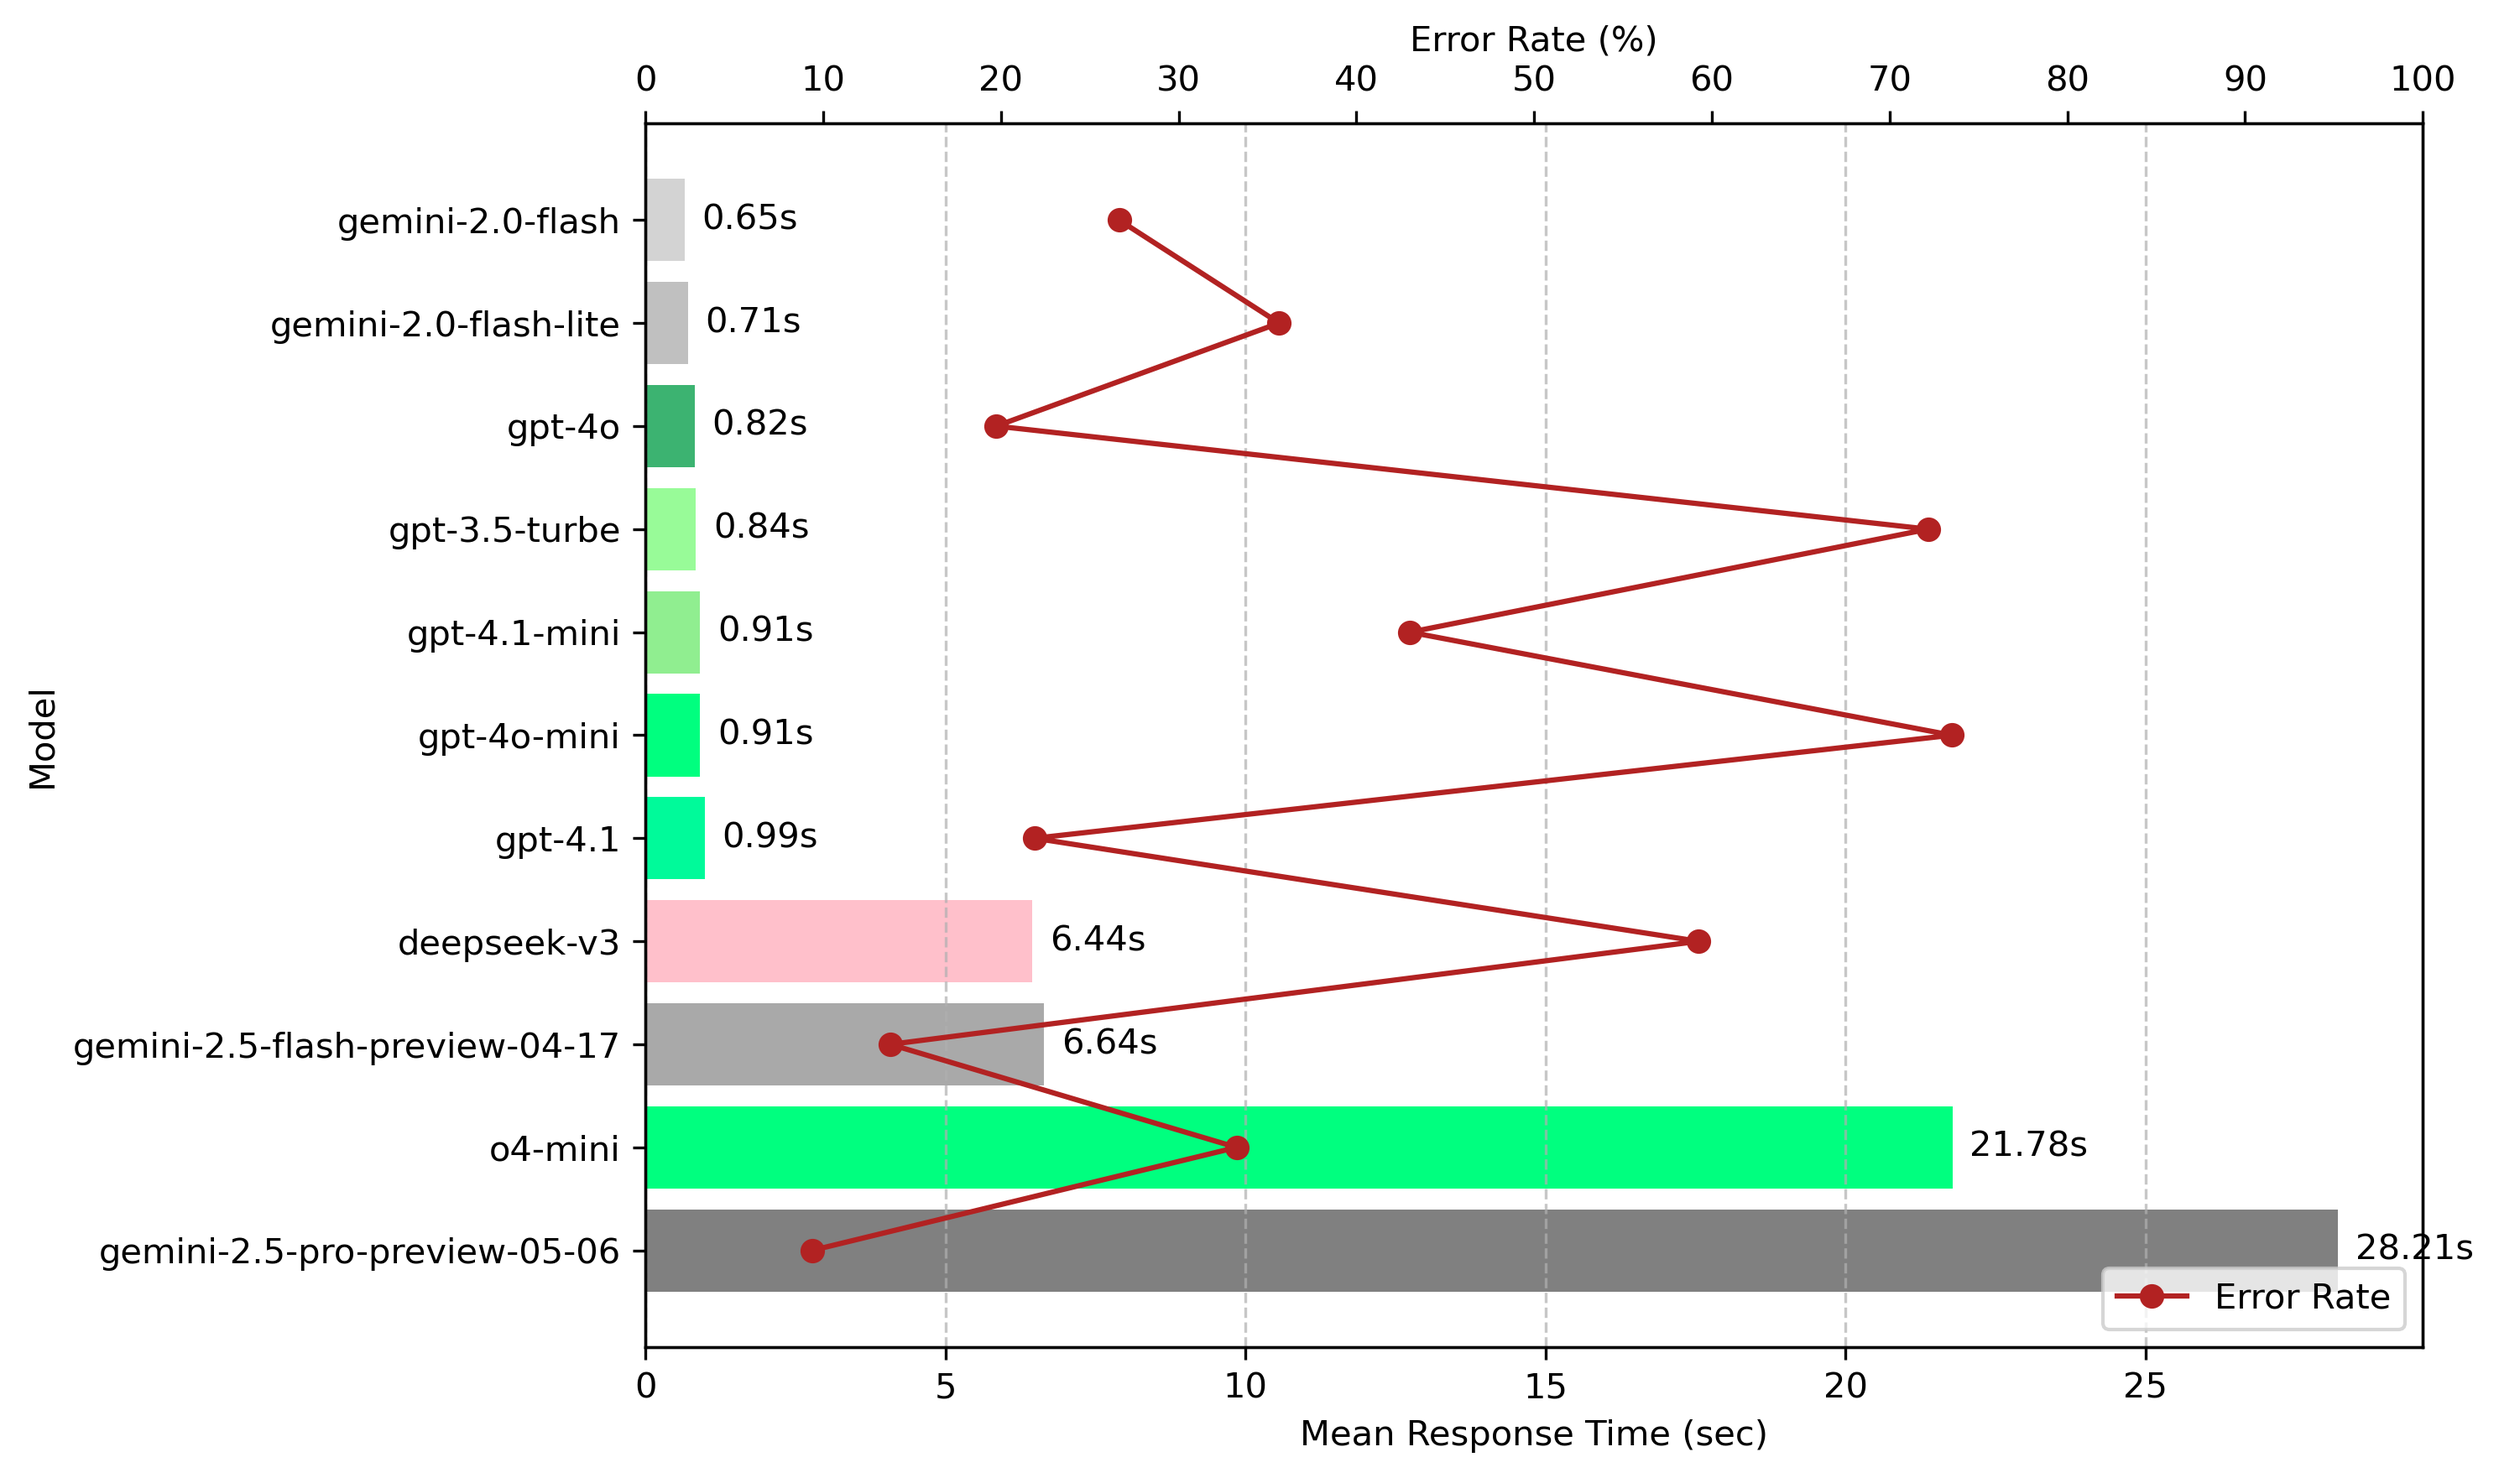
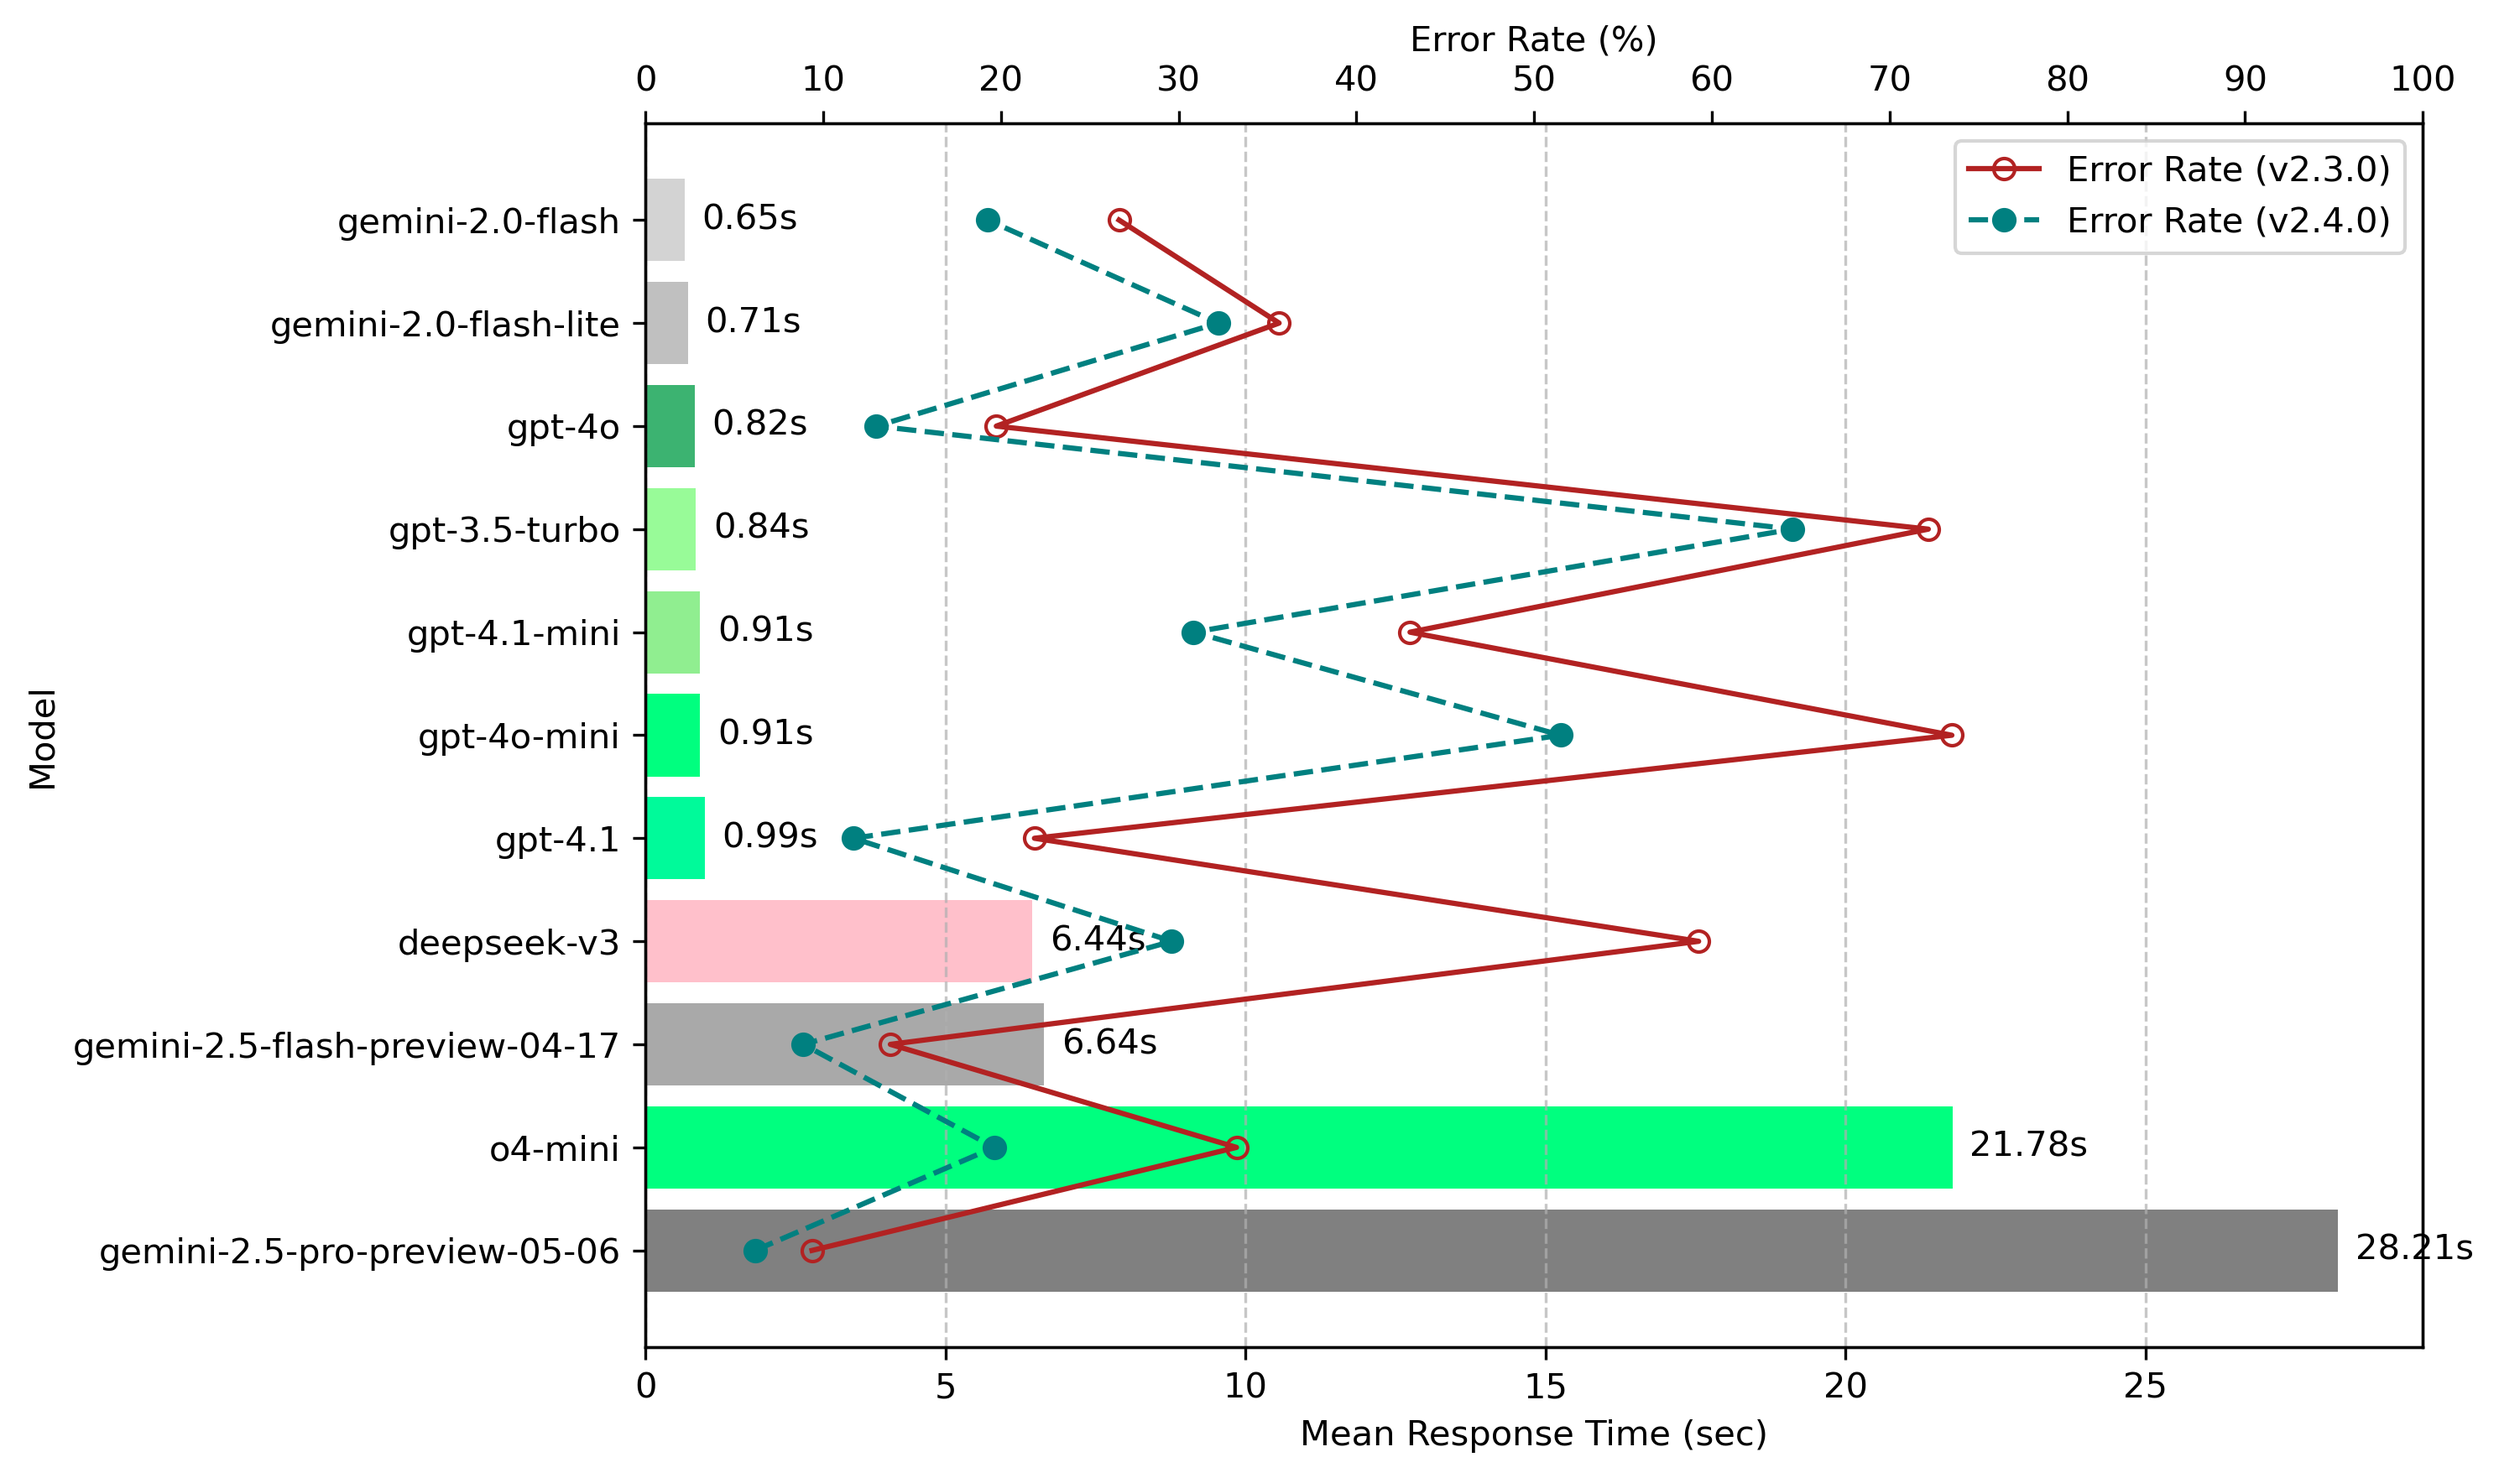
グラフにVer2.4.0のErrer Rateを足した。

diff --git a/benchmark/plot_mean_response_time.py b/benchmark/plot_mean_response_time.py
@@ -1,119 +1,230 @@
 #!/usr/bin/env python3
 # -*- coding: utf-8 -*-
-"""
-plot_mean_response_time.py
+"""plot_mean_response_time.py
 
-各モデルの平均応答時間（mean_elapsed_sec）をバーグラフでプロットする
+グラフ構成
+============
+1. X 軸 (主軸, ax1)
+   • 各モデルの平均応答時間 mean_elapsed_sec (v2.3.0)
+     -> 横向きバーで表示
+
+   • 同じモデルの mean_elapsed_sec (v2.4.0)
+     -> ネイビー破線 & 四角マーカーで折れ線表示
+
+2. X 軸 (副軸, ax2 – 上側)
+   • 各モデルの誤り率 mean_cer (v2.3.0)
+     -> 赤丸 & 実線の折れ線表示
+
+   • 同じモデルの mean_cer (v2.4.0)
+     -> ティール菱形 & 破線の折れ線表示
+
+凡例
+----
+• 左下 : Mean Response (v2.4.0)
+• 右下 : Error Rate (v2.3.0 / v2.4.0)
+
+バーの右横には v2.3.0 の平均応答時間値を注釈。
 """
-import matplotlib.pyplot as plt
+
+from __future__ import annotations
+
 import argparse
-
-## モデル名と平均応答時間 (mean_elapsed_sec) 値
-# 両プロットで同じ順序・カラーを使用
-modules = [
-    'gpt-3.5-turbo',
-    'gpt-4.1-mini',
-    'gpt-4.1',
-    'gpt-4o-mini',
-    'gpt-4o',
-    'o4-mini',
-    'deepseek-v3',
-    'gemini-2.0-flash',
-    'gemini-2.0-flash-lite',
-    'gemini-2.5-flash-preview-04-17',
-    'gemini-2.5-pro-preview-05-06',
-]
-# 各モデルの mean_elapsed_sec
-mean_elapsed_secs = [
-    0.836779,   # gpt-3.5-turbo
-    0.908558,   # gpt-4.1-mini
-    0.985278,   # gpt-4.1
-    0.912621,   # gpt-4o-mini
-    0.821817,   # gpt-4o
-    21.780880,  # o4-mini
-    6.444244,   # deepseek-v3
-    0.651836,   # gemini-2.0-flash
-    0.709727,   # gemini-2.0-flash-lite
-    6.640661,   # gemini-2.5-flash-preview-04-17
-    28.210514,  # gemini-2.5-pro-preview-05-06
-]
-
-# カラー設定（モデルごと, plot_errorrate_vs_cost.py と同順序）
-colors = [
-    'palegreen',
-    'lightgreen',
-    'mediumspringgreen',
-    'springgreen',
-    'mediumseagreen',
-    'springgreen',
-    'pink',
-    'lightgray',
-    'silver',
-    'darkgray',
-    'gray',
-]
-
-## 各モデルのエラーレート (mean_cer)
-error_rates = [
-    0.721777,  # gpt-3.5-turbo
-    0.430172,  # gpt-4.1-mini
-    0.218878,  # gpt-4.1
-    0.735027,  # gpt-4o-mini
-    0.197426,  # gpt-4o
-    0.332583,  # o4-mini
-    0.592557,  # deepseek-v3
-    0.266489,  # gemini-2.0-flash
-    0.356546,  # gemini-2.0-flash-lite
-    0.137815,  # gemini-2.5-flash-preview-04-17
-    0.093759,  # gemini-2.5-pro-preview-05-06
-]
-# 応答時間が長い順にソート
-sorted_idx = sorted(range(len(mean_elapsed_secs)), key=lambda i: mean_elapsed_secs[i], reverse=True)
-modules = [modules[i] for i in sorted_idx]
-mean_elapsed_secs = [mean_elapsed_secs[i] for i in sorted_idx]
-colors = [colors[i] for i in sorted_idx]
-error_rates = [error_rates[i] for i in sorted_idx]
+from typing import List
 
 import matplotlib.pyplot as plt
-# メイン軸：平均応答時間を横長バーでプロット
+
+# ---------------------------------------------------------------------------
+# 元データ（aggregate_results.py の出力を転記）
+# ---------------------------------------------------------------------------
+
+MODELS: List[str] = [
+    "gpt-3.5-turbo",
+    "gpt-4.1-mini",
+    "gpt-4.1",
+    "gpt-4o-mini",
+    "gpt-4o",
+    "o4-mini",
+    "deepseek-v3",
+    "gemini-2.0-flash",
+    "gemini-2.0-flash-lite",
+    "gemini-2.5-flash-preview-04-17",
+    "gemini-2.5-pro-preview-05-06",
+]
+
+# 平均応答時間 (sec)
+MEAN_ELAPSED_V23 = [
+    0.836779,
+    0.908558,
+    0.985278,
+    0.912621,
+    0.821817,
+    21.780880,
+    6.444244,
+    0.651836,
+    0.709727,
+    6.640661,
+    28.210514,
+]
+
+MEAN_ELAPSED_V24 = [
+    0.827224,
+    0.979534,
+    1.276582,
+    1.059017,
+    0.983554,
+    14.309153,
+    5.139222,
+    0.609305,
+    0.590890,
+    4.177074,
+    17.666037,
+]
+
+# 誤り率 (CER)
+MEAN_CER_V23 = [
+    0.721777,
+    0.430172,
+    0.218878,
+    0.735027,
+    0.197426,
+    0.332583,
+    0.592557,
+    0.266489,
+    0.356546,
+    0.137815,
+    0.093759,
+]
+
+MEAN_CER_V24 = [
+    0.645358,
+    0.308427,
+    0.117064,
+    0.514936,
+    0.130022,
+    0.196260,
+    0.296198,
+    0.192571,
+    0.322322,
+    0.088799,
+    0.061644,
+]
+
+# カラー (plot_errorrate_vs_cost.py と合わせている)
+BAR_COLORS = [
+    "palegreen",
+    "lightgreen",
+    "mediumspringgreen",
+    "springgreen",
+    "mediumseagreen",
+    "springgreen",
+    "pink",
+    "lightgray",
+    "silver",
+    "darkgray",
+    "gray",
+]
+
+# ---------------------------------------------------------------------------
+# 並び替え : v2.3.0 の mean_elapsed_sec が長い順
+# ---------------------------------------------------------------------------
+
+sorted_idx = sorted(range(len(MODELS)), key=lambda i: MEAN_ELAPSED_V23[i], reverse=True)
+
+models_sorted = [MODELS[i] for i in sorted_idx]
+elapsed_v23_sorted = [MEAN_ELAPSED_V23[i] for i in sorted_idx]
+elapsed_v24_sorted = [MEAN_ELAPSED_V24[i] for i in sorted_idx]
+cer_v23_sorted = [MEAN_CER_V23[i] for i in sorted_idx]
+cer_v24_sorted = [MEAN_CER_V24[i] for i in sorted_idx]
+bar_colors_sorted = [BAR_COLORS[i] for i in sorted_idx]
+
+# バー中心の y 座標を後で使うために計算する
+
+# ---------------------------------------------------------------------------
+# 描画
+# ---------------------------------------------------------------------------
+
 fig, ax1 = plt.subplots(figsize=(10, 6))
-bars = ax1.barh(modules, mean_elapsed_secs, color=colors)
 
-ax1.set_xlabel('Mean Response Time (sec)')
-ax1.set_ylabel('Model')
-ax1.grid(axis='x', linestyle='--', alpha=0.7)
+# -- v2.3.0: 横棒バー
+bars = ax1.barh(models_sorted, elapsed_v23_sorted, color=bar_colors_sorted)
 
-# 補助軸：エラー率を折れ線でプロット
-ax2 = ax1.twiny()
-# エラー率をパーセントに変換
-err_pct = [e * 100 for e in error_rates]
-# バーの中心 y 座標を取得
+ax1.set_xlabel("Mean Response Time (sec)")
+ax1.set_ylabel("Model")
+ax1.grid(axis="x", linestyle="--", alpha=0.7)
+
+# バーの中心 y 座標
 y_centers = [bar.get_y() + bar.get_height() / 2 for bar in bars]
-ax2.plot(err_pct, y_centers, 'o-', color='firebrick', label='Error Rate')
-ax2.set_xlabel('Error Rate (%)')
+
+# (削除) v2.4.0 の mean response 折れ線 — 要件変更により表示しない
+
+# -------- 副軸 (上): CER --------
+ax2 = ax1.twiny()
+
+cer_pct_v23 = [c * 100 for c in cer_v23_sorted]
+cer_pct_v24 = [c * 100 for c in cer_v24_sorted]
+
+# ---- Error Rate v2.3.0: Hollow circle ----
+ax2.plot(
+    cer_pct_v23,
+    y_centers,
+    linestyle="-",
+    marker="o",
+    markerfacecolor="none",  # hollow
+    markeredgecolor="firebrick",
+    color="firebrick",
+    label="Error Rate (v2.3.0)",
+)
+
+# ---- Error Rate v2.4.0: Filled circle ----
+ax2.plot(
+    cer_pct_v24,
+    y_centers,
+    linestyle="--",
+    marker="o",
+    markerfacecolor="teal",
+    markeredgecolor="teal",
+    color="teal",
+    label="Error Rate (v2.4.0)",
+)
+
+ax2.set_xlabel("Error Rate (%)")
 ax2.set_xlim(0, 100)
 ax2.set_xticks(range(0, 101, 10))
-ax2.xaxis.set_label_position('top')
-ax2.xaxis.set_ticks_position('top')
-ax2.legend(loc='lower right')
+ax2.xaxis.set_label_position("top")
+ax2.xaxis.set_ticks_position("top")
 
-# 平均応答時間の値をバーの右側にアノテーション
-for bar, val in zip(bars, mean_elapsed_secs):
+# -- 凡例（Error Rate のみ表示）
+ax2.legend(loc="upper right")
+
+# -- バーに数値を注釈（v2.3.0）
+for bar, val in zip(bars, elapsed_v23_sorted):
     x = bar.get_width()
     y = bar.get_y() + bar.get_height() / 2
-    ax1.annotate(f'{val:.2f}s',
-                 xy=(x, y),
-                 xytext=(5, 0),
-                 textcoords='offset points',
-                 ha='left', va='center')
+    ax1.annotate(
+        f"{val:.2f}s",
+        xy=(x, y),
+        xytext=(5, 0),
+        textcoords="offset points",
+        ha="left",
+        va="center",
+    )
 
 plt.tight_layout()
 
-# コマンドライン引数による出力先指定
-parser = argparse.ArgumentParser(description='Plot mean response time')
-parser.add_argument('-o', '--output', help='Output image file path')
-args = parser.parse_args()
-if args.output:
-    plt.savefig(args.output, dpi=300, bbox_inches='tight')
-else:
-    plt.show()
+# ---------------------------------------------------------------------------
+# CLI
+# ---------------------------------------------------------------------------
+
+def main() -> None:
+    parser = argparse.ArgumentParser(description="Plot mean response time & error rate (v2.3.0 / v2.4.0)")
+    parser.add_argument("-o", "--output", help="Output image file path")
+    args = parser.parse_args()
+
+    if args.output:
+        plt.savefig(args.output, dpi=300, bbox_inches="tight")
+    else:
+        plt.show()
+
+
+if __name__ == "__main__":
+    main()
